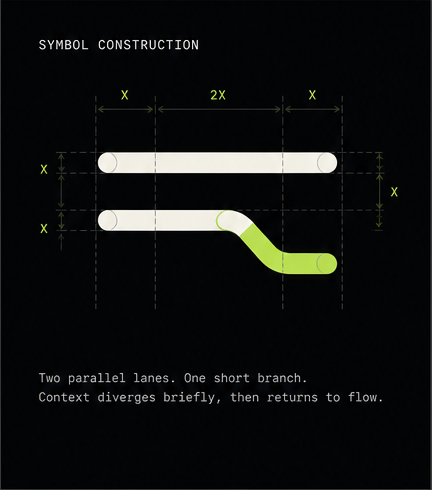
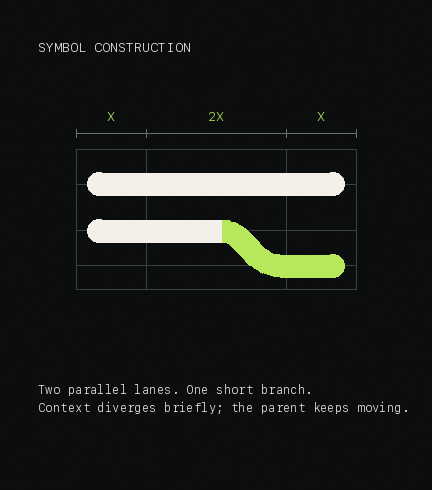
docs: render campaign assets with unified sign

diff --git a/scripts/render-brand-assets.py b/scripts/render-brand-assets.py
@@ -2,6 +2,7 @@ from __future__ import annotations
 
 from pathlib import Path
 import random
+import shutil
 from PIL import Image, ImageDraw, ImageEnhance, ImageFilter, ImageFont
 
 ROOT = Path(__file__).resolve().parents[1]
@@ -17,6 +18,10 @@ MUTED = "#969B98"
 DIN = "/System/Library/Fonts/Supplemental/DIN Condensed Bold.ttf"
 SF = "/System/Library/Fonts/SFNS.ttf"
 MONO = "/System/Library/Fonts/SFNSMono.ttf"
+
+SIGN_WIDTH = 48
+SIGN_HEIGHT = 24
+SIGN_STROKE = 4
 
 
 def font(path: str, size: int) -> ImageFont.FreeTypeFont:
@@ -35,14 +40,36 @@ def add_noise(image: Image.Image, amount: int = 7, seed: int = 41) -> None:
         px[x, y] = tuple(max(0, min(255, c + delta)) for c in (r, g, b))
 
 
-def rail_mark(draw: ImageDraw.ImageDraw, x: int, y: int, scale: int = 1) -> None:
-    white = 11 * scale
-    gap = 18 * scale
-    radius = 6 * scale
-    draw.rounded_rectangle((x, y, x + 240 * scale, y + white), radius=radius, fill=PAPER)
-    draw.rounded_rectangle((x, y + gap, x + 136 * scale, y + gap + white), radius=radius, fill=PAPER)
-    draw.rounded_rectangle((x + 128 * scale, y + gap, x + 188 * scale, y + gap + 68 * scale), radius=28 * scale, fill=MINT)
-    draw.rounded_rectangle((x + 180 * scale, y + gap + 57 * scale, x + 240 * scale, y + gap + 68 * scale), radius=radius, fill=MINT)
+def cubic_point(t: float) -> tuple[float, float]:
+    mt = 1 - t
+    x = mt**3 * 25 + 3 * mt**2 * t * 29 + 3 * mt * t**2 * 30 + t**3 * 35
+    y = mt**3 * 14 + 3 * mt**2 * t * 14 + 3 * mt * t**2 * 20 + t**3 * 20
+    return x, y
+
+
+def round_cap(draw: ImageDraw.ImageDraw, point: tuple[float, float], stroke: int, fill: str) -> None:
+    radius = stroke / 2
+    x, y = point
+    draw.ellipse((x - radius, y - radius, x + radius, y + radius), fill=fill)
+
+
+def draw_sign(draw: ImageDraw.ImageDraw, x: int, y: int, width: int, neutral: str) -> None:
+    scale = width / SIGN_WIDTH
+    stroke = max(2, round(SIGN_STROKE * scale))
+    # ImageDraw leaves one-pixel seams between fractional curve segments. Snap
+    # sampling coordinates to its integer raster grid before connecting them.
+    point = lambda px, py: (round(x + px * scale), round(y + py * scale))
+    top = [point(4, 6), point(44, 6)]
+    lower_neutral = [point(4, 14), point(25, 14)]
+    lower_mint = [point(*cubic_point(index / 24)) for index in range(25)]
+    lower_mint.append(point(44, 20))
+    draw.line(top, fill=neutral, width=stroke)
+    draw.line(lower_neutral, fill=neutral, width=stroke)
+    draw.line(lower_mint, fill=MINT, width=stroke, joint="curve")
+    round_cap(draw, top[0], stroke, neutral)
+    round_cap(draw, top[-1], stroke, neutral)
+    round_cap(draw, lower_neutral[0], stroke, neutral)
+    round_cap(draw, lower_mint[-1], stroke, MINT)
 
 
 def crop_surface() -> Image.Image:
@@ -64,7 +91,7 @@ def render_hero(size: tuple[int, int], output: str) -> None:
     draw.line((divider, 0, divider, height), fill=LINE, width=max(1, width // 1600))
 
     unit = width / 2400
-    rail_mark(draw, margin, round(110 * unit), max(1, round(unit)))
+    draw_sign(draw, margin, round(104 * unit), round(240 * unit), PAPER)
     draw.text((margin, round(245 * unit)), "DSH", font=font(DIN, round(184 * unit)), fill=PAPER)
     draw.text((margin + round(275 * unit), round(276 * unit)), "SIDE CHAT", font=font(MONO, round(49 * unit)), fill=PAPER, spacing=4)
 
@@ -108,15 +135,68 @@ def render_hero(size: tuple[int, int], output: str) -> None:
     image.save(ASSETS / output, optimize=True)
 
 
-def render_crops() -> None:
+def render_construction_panel() -> Image.Image:
+    width, height = 432, 490
+    image = Image.new("RGB", (width, height), INK)
+    add_noise(image, amount=4, seed=43)
+    draw = ImageDraw.Draw(image)
+
+    draw.text((38, 39), "SYMBOL CONSTRUCTION", font=font(MONO, 13), fill=PAPER)
+
+    sign_x, sign_y, sign_width = 76, 149, 280
+    scale = sign_width / SIGN_WIDTH
+    grid_left = sign_x
+    grid_x = (sign_x, sign_x + 12 * scale, sign_x + 36 * scale, sign_x + SIGN_WIDTH * scale)
+    grid_top = sign_y
+    grid_bottom = sign_y + SIGN_HEIGHT * scale
+    guide = "#3C423F"
+    dimension = "#687365"
+
+    for guide_x in grid_x:
+        draw.line((guide_x, grid_top, guide_x, grid_bottom), fill=guide, width=1)
+    for guide_y in (grid_top, sign_y + 6 * scale, sign_y + 14 * scale, sign_y + 20 * scale, grid_bottom):
+        draw.line((grid_left, guide_y, grid_x[-1], guide_y), fill=guide, width=1)
+
+    dimension_y = sign_y - 16
+    for start, end, label in zip(grid_x, grid_x[1:], ("X", "2X", "X")):
+        draw.line((start, dimension_y, end, dimension_y), fill=dimension, width=1)
+        draw.line((start, dimension_y - 4, start, dimension_y + 4), fill=dimension, width=1)
+        draw.line((end, dimension_y - 4, end, dimension_y + 4), fill=dimension, width=1)
+        box = draw.textbbox((0, 0), label, font=font(MONO, 13))
+        draw.text(((start + end - (box[2] - box[0])) / 2, dimension_y - 25), label, font=font(MONO, 13), fill=MINT)
+
+    draw_sign(draw, sign_x, sign_y, sign_width, PAPER)
+    draw.text(
+        (38, 382),
+        "Two parallel lanes. One short branch.\nContext diverges briefly; the parent keeps moving.",
+        font=font(MONO, 12),
+        fill=PAPER,
+        spacing=6,
+    )
+    return image
+
+
+def patch_brand_board(construction: Image.Image) -> None:
+    board = Image.open(ASSETS / "brand-board.png").convert("RGB")
+    draw = ImageDraw.Draw(board)
+    draw.rectangle((58, 200, 402, 355), fill=INK)
+    draw_sign(draw, 68, 220, 296, PAPER)
+    board.paste(construction, (0, 1046))
+    board.save(ASSETS / "brand-board.png", optimize=True)
+
+
+def render_crops(construction: Image.Image) -> None:
     crop_surface().save(ASSETS / "concept-surface.png", optimize=True)
     BOARD.crop((432, 678, 1024, 1046)).save(ASSETS / "campaign-statement.png", optimize=True)
-    BOARD.crop((0, 1046, 432, 1536)).save(ASSETS / "symbol-construction.png", optimize=True)
+    construction.save(ASSETS / "symbol-construction.png", optimize=True)
 
 
 if __name__ == "__main__":
     ASSETS.mkdir(parents=True, exist_ok=True)
-    render_hero((2400, 1350), "hero.png")
+    construction = render_construction_panel()
+    patch_brand_board(construction)
+    render_hero((2400, 1350), "hero-dark.png")
+    shutil.copyfile(ASSETS / "hero-dark.png", ASSETS / "hero.png")
     render_hero((1200, 630), "social-card.png")
-    render_crops()
-    print("Rendered hero.png, social-card.png, and supporting brand crops")
+    render_crops(construction)
+    print("Rendered hero-dark.png, hero.png, social-card.png, and supporting brand crops")
